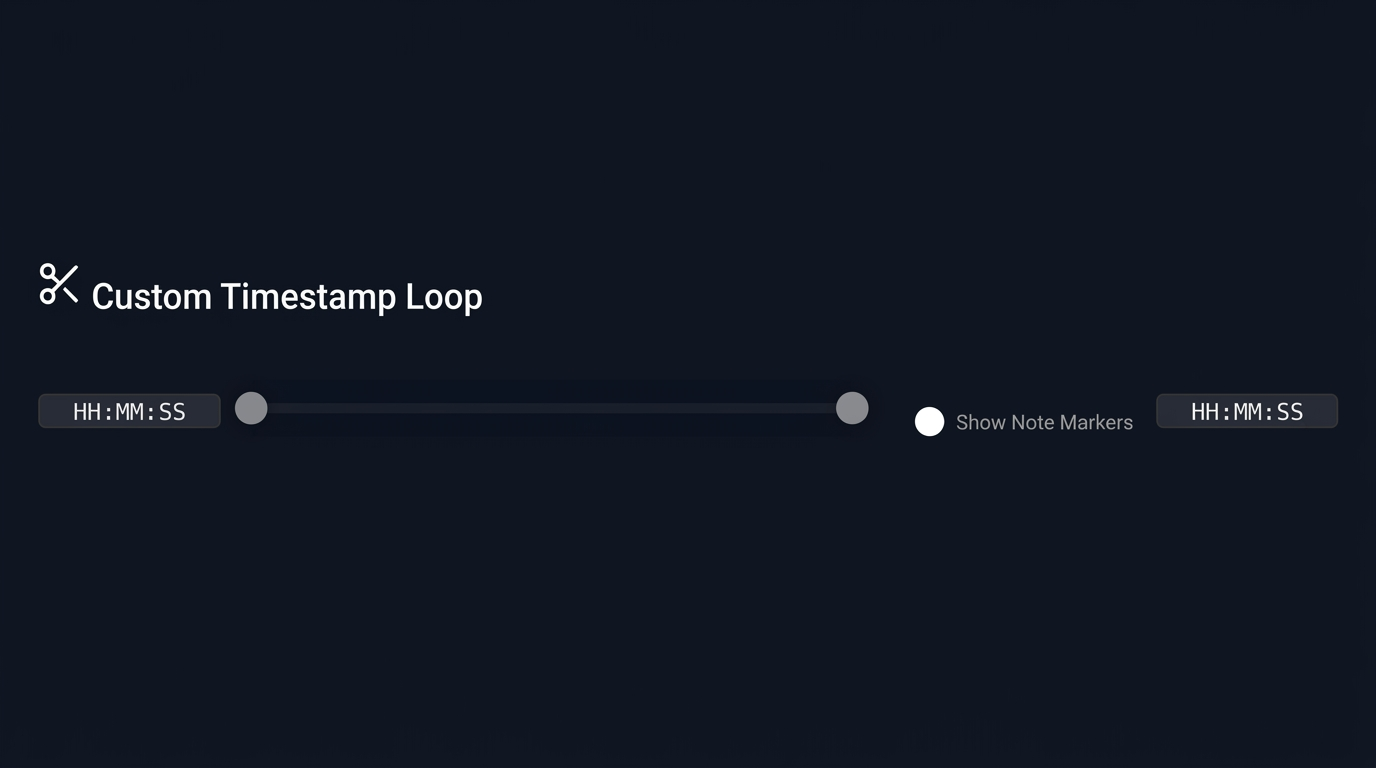
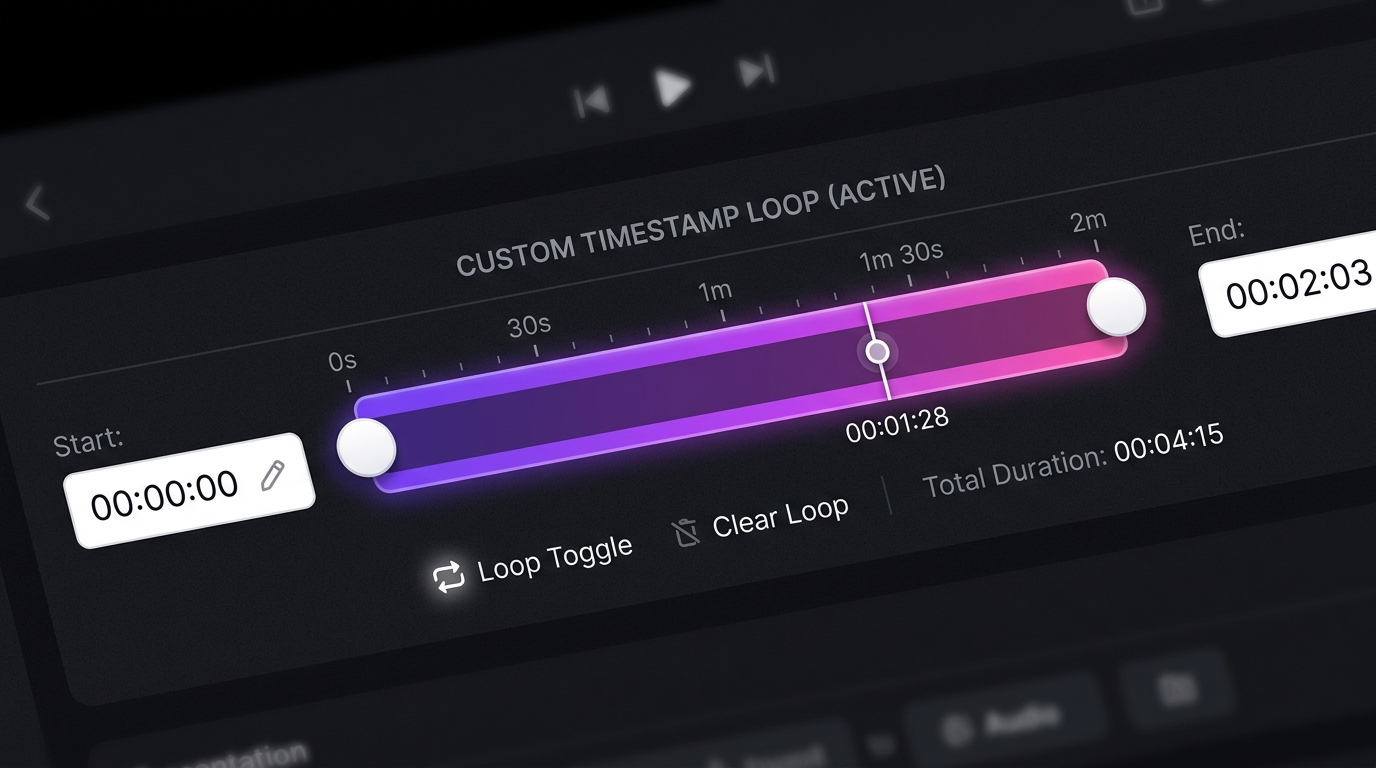
Delete scratch scripts to fix ESLint errors, update step 2 guide image to a sleek widescreen cropped version

diff --git a/index.html b/index.html
@@ -374,8 +374,8 @@
                 <div style="display: flex; flex-direction: column; align-items: center; gap: 4px;">
                   <span style="font-size: 10px; color: var(--text-muted); text-transform: uppercase;">Start Time Fine Tune</span>
                   <div style="display: flex; gap: 4px;">
-                    <button class="btn btn-secondary btn-sm" style="padding: 0 8px;" onclick="app.fineTuneLoop('start', -0.05)"><i data-lucide="minus" style="width:14px;height:14px;"></i></button>
-                    <button class="btn btn-secondary btn-sm" style="padding: 0 8px;" onclick="app.fineTuneLoop('start', 0.05)"><i data-lucide="plus" style="width:14px;height:14px;"></i></button>
+                    <button class="btn btn-secondary btn-sm" style="padding: 0 8px;" onclick="app.fineTuneLoop('start', -1)"><i data-lucide="minus" style="width:14px;height:14px;"></i></button>
+                    <button class="btn btn-secondary btn-sm" style="padding: 0 8px;" onclick="app.fineTuneLoop('start', 1)"><i data-lucide="plus" style="width:14px;height:14px;"></i></button>
                   </div>
                 </div>
                 
@@ -398,8 +398,8 @@
                 <div style="display: flex; flex-direction: column; align-items: center; gap: 4px;">
                   <span style="font-size: 10px; color: var(--text-muted); text-transform: uppercase;">End Time Fine Tune</span>
                   <div style="display: flex; gap: 4px;">
-                    <button class="btn btn-secondary btn-sm" style="padding: 0 8px;" onclick="app.fineTuneLoop('end', -0.05)"><i data-lucide="minus" style="width:14px;height:14px;"></i></button>
-                    <button class="btn btn-secondary btn-sm" style="padding: 0 8px;" onclick="app.fineTuneLoop('end', 0.05)"><i data-lucide="plus" style="width:14px;height:14px;"></i></button>
+                    <button class="btn btn-secondary btn-sm" style="padding: 0 8px;" onclick="app.fineTuneLoop('end', -1)"><i data-lucide="minus" style="width:14px;height:14px;"></i></button>
+                    <button class="btn btn-secondary btn-sm" style="padding: 0 8px;" onclick="app.fineTuneLoop('end', 1)"><i data-lucide="plus" style="width:14px;height:14px;"></i></button>
                   </div>
                 </div>
                 
@@ -448,7 +448,7 @@
                   </div>
                   <div style="display: flex; gap: 8px; align-items: center;">
                      <button id="record-btn" class="btn btn-error btn-sm" onclick="app.toggleRecording()"><i data-lucide="mic"></i> Record (30s Free)</button>
-                     <span onclick="app.showInfoModal('Recorded audio is only saved temporarily and will be lost if you close the session. Download it in the Recorded Audio tab on the right to keep it!')" style="cursor:help;" title="Recorded audio is only saved temporarily and will be lost if you close the session. Download it in the Recorded Audio tab on the right to keep it!"><i data-lucide="info" style="width: 14px; height: 14px; color: var(--text-muted);"></i></span>
+                     <span onclick="app.showInfoModal('To strictly protect your privacy, recorded audio is never sent to our servers and is only saved temporarily on your device. It will be permanently lost if you close the session, so make sure to download it in the Recorded Audio tab to keep it!')" style="cursor:help;" title="To strictly protect your privacy, recorded audio is never sent to our servers and is only saved temporarily on your device. It will be permanently lost if you close the session, so make sure to download it in the Recorded Audio tab to keep it!"><i data-lucide="info" style="width: 14px; height: 14px; color: var(--text-muted);"></i></span>
                      <button id="play-recording-btn" class="btn btn-secondary btn-sm hidden" onclick="app.toggleRecordingPlayback()"><i data-lucide="play"></i> Play</button>
                      <a id="download-recording-btn" class="btn btn-secondary btn-sm hidden" download="recording.webm" style="text-decoration: none;"><i data-lucide="download"></i></a>
                      <button id="delete-recording-btn" class="btn-icon-delete hidden" onclick="app.deleteCurrentRecording()" title="Delete Recording"><i data-lucide="trash-2"></i></button>

diff --git a/js/audioRecorder.js b/js/audioRecorder.js
@@ -225,16 +225,21 @@ class AudioRecorderMixin {
   updateRecordButtonUI() {
     const tier = this.getUserTier();
     const recordBtn = document.getElementById('record-btn');
+    const display = document.getElementById('recording-time-display');
+    
     if (recordBtn) {
       // Don't overwrite if it's currently recording (saying "Stop Recording")
       if (this.state.audio && this.state.audio.isRecording) return;
       
       if (tier === 'pro') {
         recordBtn.innerHTML = '<i data-lucide="mic"></i> Record (10min)';
+        if (display) display.textContent = '00:00 / 10:00';
       } else if (tier === 'premium') {
         recordBtn.innerHTML = '<i data-lucide="mic"></i> Record (5min)';
+        if (display) display.textContent = '00:00 / 05:00';
       } else {
         recordBtn.innerHTML = '<i data-lucide="mic"></i> Record (30s Free)';
+        if (display) display.textContent = '00:00 / 00:30';
       }
       recordBtn.classList.remove('btn-secondary');
       recordBtn.classList.add('btn-error');
